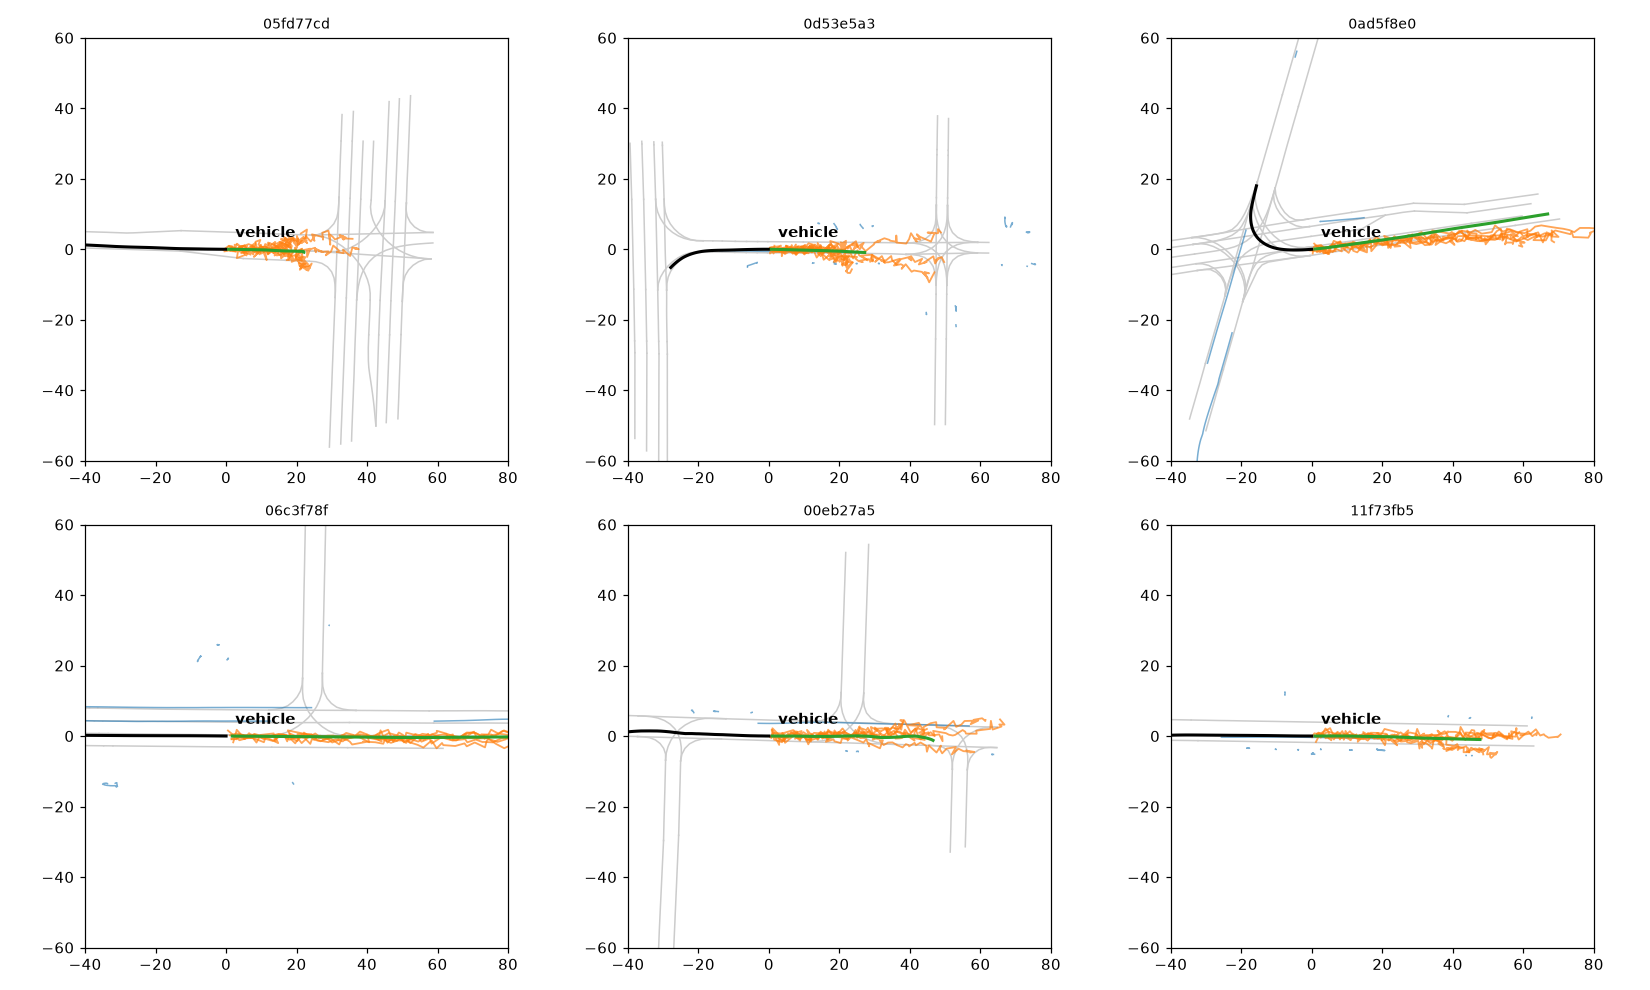
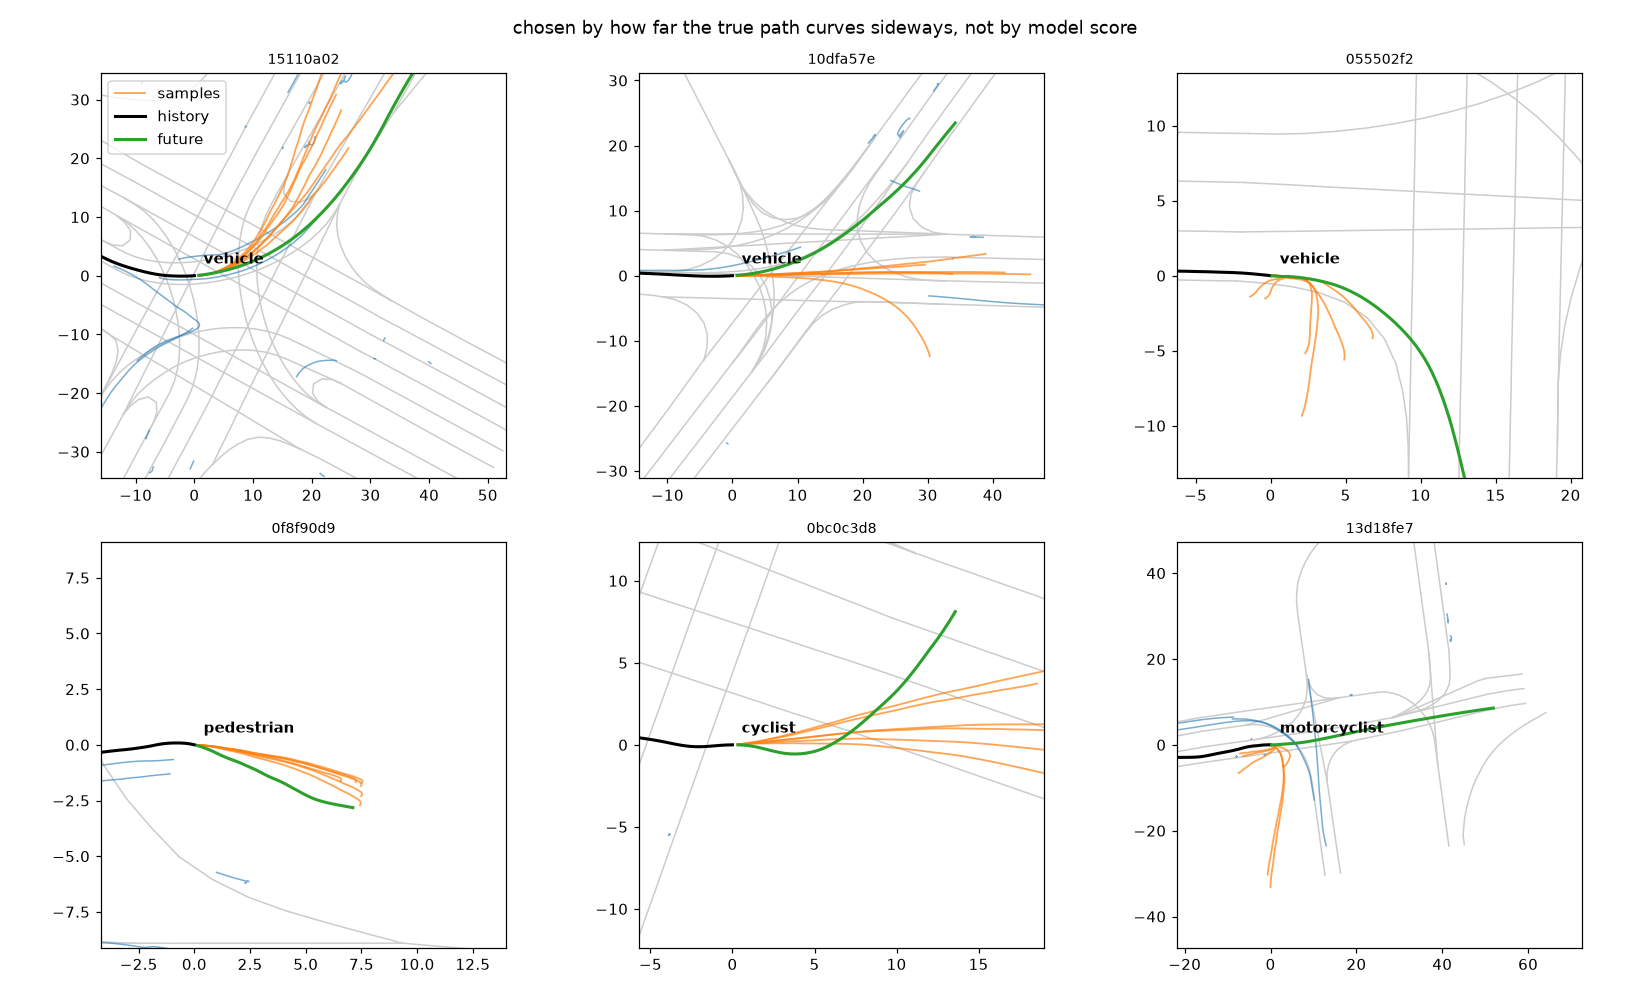
Predict accelerations and integrate them into paths
The network now outputs 60 accelerations, capped near 0.7 g, and a double
integration from the last observed velocity gives the path. The loss
compares that path with the true future, and sampling moves a fraction of
the way to the predicted clean path each step. The predictions plot now
picks turning scenes and other agent types, zoomed per scene.

diff --git a/evaluate.py b/evaluate.py
@@ -1,11 +1,9 @@
 import numpy as np
 import torch
 
-from av2_data import DATA_ROOT, N_FUT, list_scenarios, load_scene, plot_scene
+from av2_data import DATA_ROOT, DT, N_FUT, TYPES, list_scenarios, load_scene, plot_scene
 from model import SCALE, FlowModel
 from train import load
-
-DT = 0.1
 
 
 @torch.no_grad()
@@ -14,7 +12,8 @@ def sample(model, feat, type_id, k=6, steps=50):
     x = torch.randn(len(feat), N_FUT, 2)
     for i in range(steps):
         t = torch.full((len(x),), i / steps)
-        x = x + model(x, t, feat, type_id) / steps
+        # each step moves 1/(steps left) of the way toward the predicted clean path
+        x = x + (model(x, t, feat, type_id) - x) / (steps - i)
     return (x * SCALE).view(-1, k, N_FUT, 2).numpy()
 
 
@@ -53,8 +52,21 @@ if __name__ == "__main__":
         print(f"{name:26s}{ade:8.2f}{fde:8.2f}{miss:8.2f}")
 
     dirs = list_scenarios("val")
+    sideways = np.abs(raw["fut"][:, -1, 1])
+
+    def pick(kind, quantile):
+        idx = np.flatnonzero(raw["type"] == TYPES.index(kind))
+        return idx[np.argsort(sideways[idx])[int(quantile * (len(idx) - 1))]]
+
+    picks = [pick("vehicle", q) for q in (0.99, 0.95, 0.90)] + [pick(kind, 0.9) for kind in ("pedestrian", "cyclist", "motorcyclist")]
     fig, axes = plt.subplots(2, 3, figsize=(15, 9))
-    for ax, i in zip(axes.ravel(), np.random.default_rng(0).choice(len(dirs), 6, replace=False)):
-        plot_scene(load_scene(dirs[i]), ax, samples[i])
+    for ax, i in zip(axes.ravel(), picks):
+        scene = load_scene(dirs[i])
+        plot_scene(scene, ax, samples[i])
+        reach = 1.4 * max(np.abs(scene["fut"]).max(), 10)
+        ax.set_xlim(-0.3 * reach, reach)
+        ax.set_ylim(-0.65 * reach, 0.65 * reach)
+    axes[0, 0].legend(loc="upper left")
+    fig.suptitle("chosen by how far the true path curves sideways, not by model score")
     fig.tight_layout()
     fig.savefig("predictions.png", dpi=110)

diff --git a/model.py b/model.py
@@ -3,10 +3,18 @@ import math
 import torch
 import torch.nn as nn
 
-from av2_data import N_FUT, TYPES
+from av2_data import DT, N_FUT, TYPES
 
 SCALE = 20.0 # meters, brings the future to a spread of about 1
 N_FEAT = 6
+A_MAX = 0.7 * 9.81 # tire friction limit, 0.7 g as in the paper
+
+
+def integrate(u, v0):
+    norm = u.norm(dim=-1, keepdim=True).clamp_min(1e-6)
+    acceleration = A_MAX * torch.tanh(norm) * u / norm
+    velocity = v0[:, None] + acceleration.cumsum(1) * DT
+    return velocity.cumsum(1) * DT / SCALE
 
 
 class FlowModel(nn.Module):
@@ -15,7 +23,7 @@ class FlowModel(nn.Module):
         self.time_dim = time_dim
         self.type_embedding = nn.Embedding(len(TYPES), type_dim)
         self.history_encoder = nn.GRU(N_FEAT, hidden, batch_first=True)
-        self.velocity_net = nn.Sequential(
+        self.acceleration_net = nn.Sequential(
             nn.Linear(2 * N_FUT + hidden + type_dim + time_dim, width), nn.SiLU(),
             nn.Linear(width, width), nn.SiLU(),
             nn.Linear(width, width), nn.SiLU(),
@@ -32,7 +40,8 @@ class FlowModel(nn.Module):
         history_code = self.history_encoder(history)[1][-1]
         condition = torch.cat([history_code, self.type_embedding(type_id)], dim=1)
         inputs = torch.cat([x.flatten(1), condition, self.time_embedding(t)], dim=1)
-        return self.velocity_net(inputs).view(-1, N_FUT, 2)
+        u = self.acceleration_net(inputs).view(-1, N_FUT, 2)
+        return integrate(u, history[:, -1, 2:4] * SCALE)
 
 
 def normalise(feat, fut=None):

diff --git a/av2_data.py b/av2_data.py
@@ -8,6 +8,7 @@ import pandas as pd
 
 DATA_ROOT = Path(__file__).parent / "data" / "av2"
 N_HIST, N_FUT = 50, 60 # number of historical timesteps/future timesteps that we are predicting
+DT = 0.1
 TYPES = ["vehicle", "pedestrian", "motorcyclist", "cyclist", "bus", "static", "background", "construction", "riderless_bicycle", "unknown"]
 
 
@@ -59,8 +60,8 @@ def plot_scene(scene, ax, preds=None):
         ax.plot(*lane.T, color="0.8", lw=1)
     for nb in scene["neighbors"]:
         ax.plot(*nb.T, color="tab:blue", lw=1, alpha=0.6)
-    for p in ([] if preds is None else preds):
-        ax.plot(*p.T, color="tab:orange", lw=1.2, alpha=0.7)
+    for i, p in enumerate([] if preds is None else preds):
+        ax.plot(*p.T, color="tab:orange", lw=1.2, alpha=0.7, label="samples" if i == 0 else None)
     ax.plot(*scene["hist"].T, color="k", lw=2, label="history")
     ax.plot(*scene["fut"].T, color="tab:green", lw=2, label="future")
     ax.annotate(TYPES[scene["type"]], (0, 0), xytext=(6, 8), textcoords="offset points", weight="bold")

diff --git a/train.py b/train.py
@@ -15,7 +15,7 @@ def flow_loss(model, feat, fut, type_id, generator=None):
     x0 = torch.randn(fut.shape, generator=generator)
     t = torch.rand(len(fut), generator=generator)
     xt = (1 - t[:, None, None]) * x0 + t[:, None, None] * fut
-    return ((model(xt, t, feat, type_id) - (fut - x0)) ** 2).mean()
+    return ((model(xt, t, feat, type_id) - fut) ** 2).mean()
 
 
 if __name__ == "__main__":
